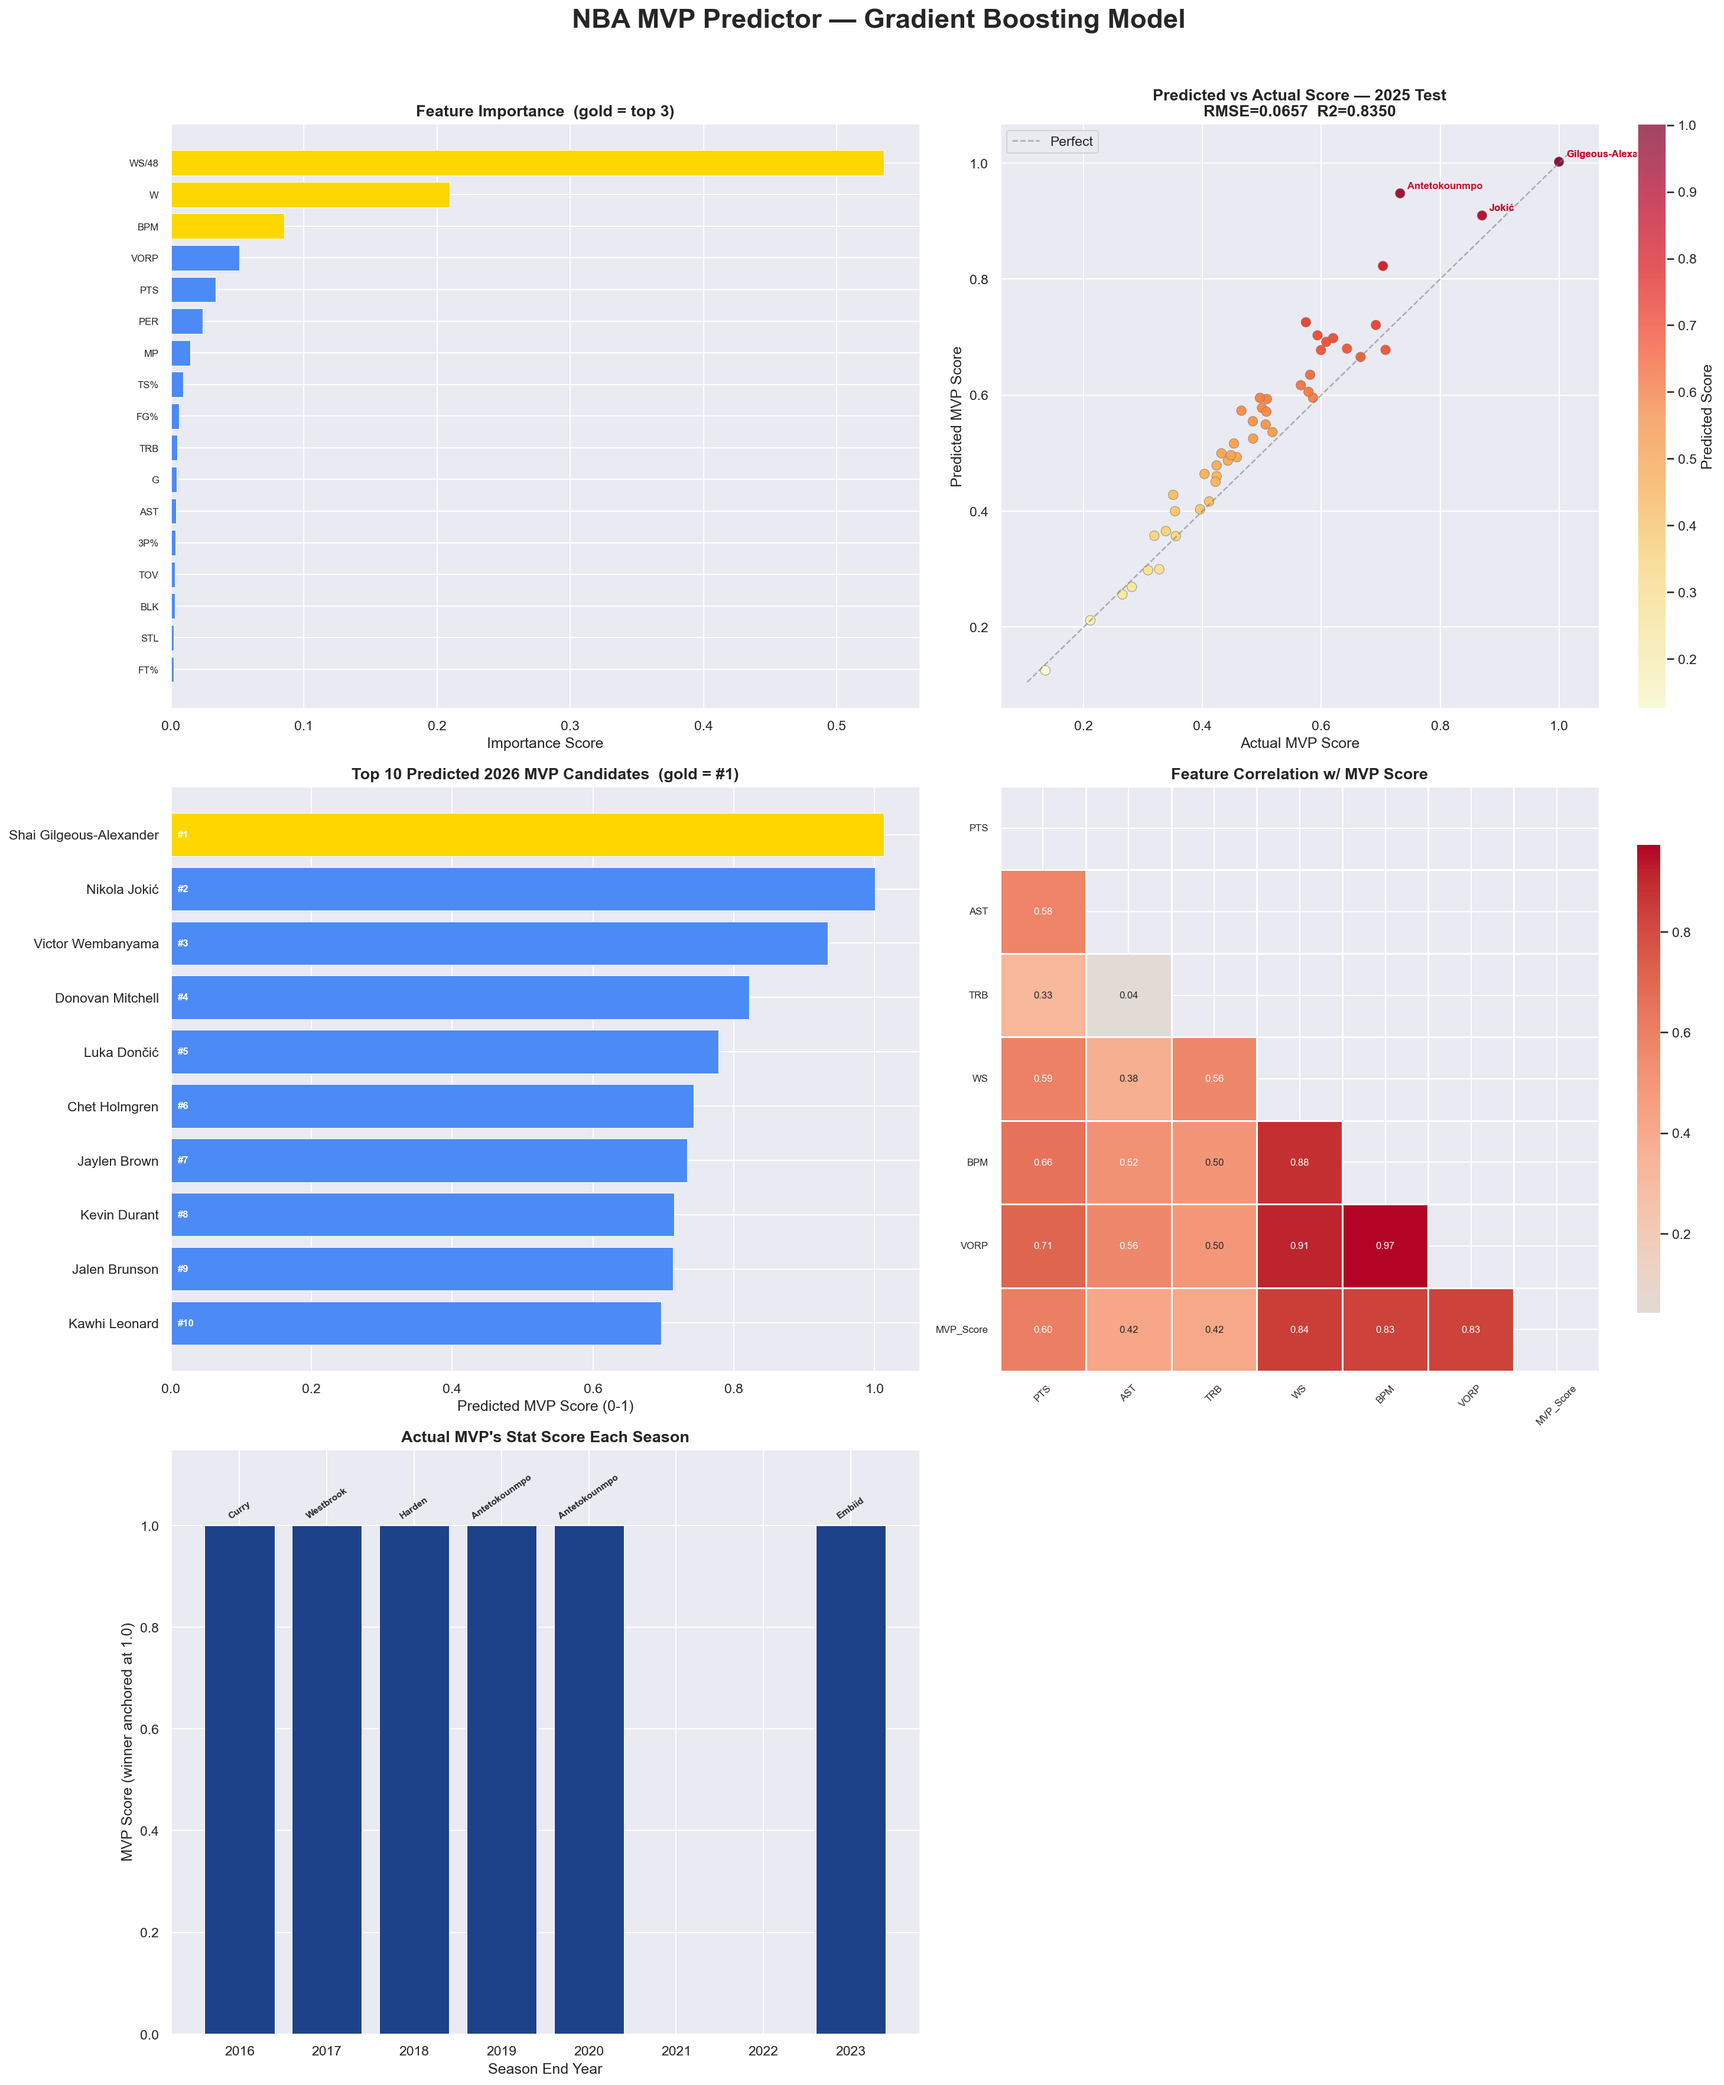
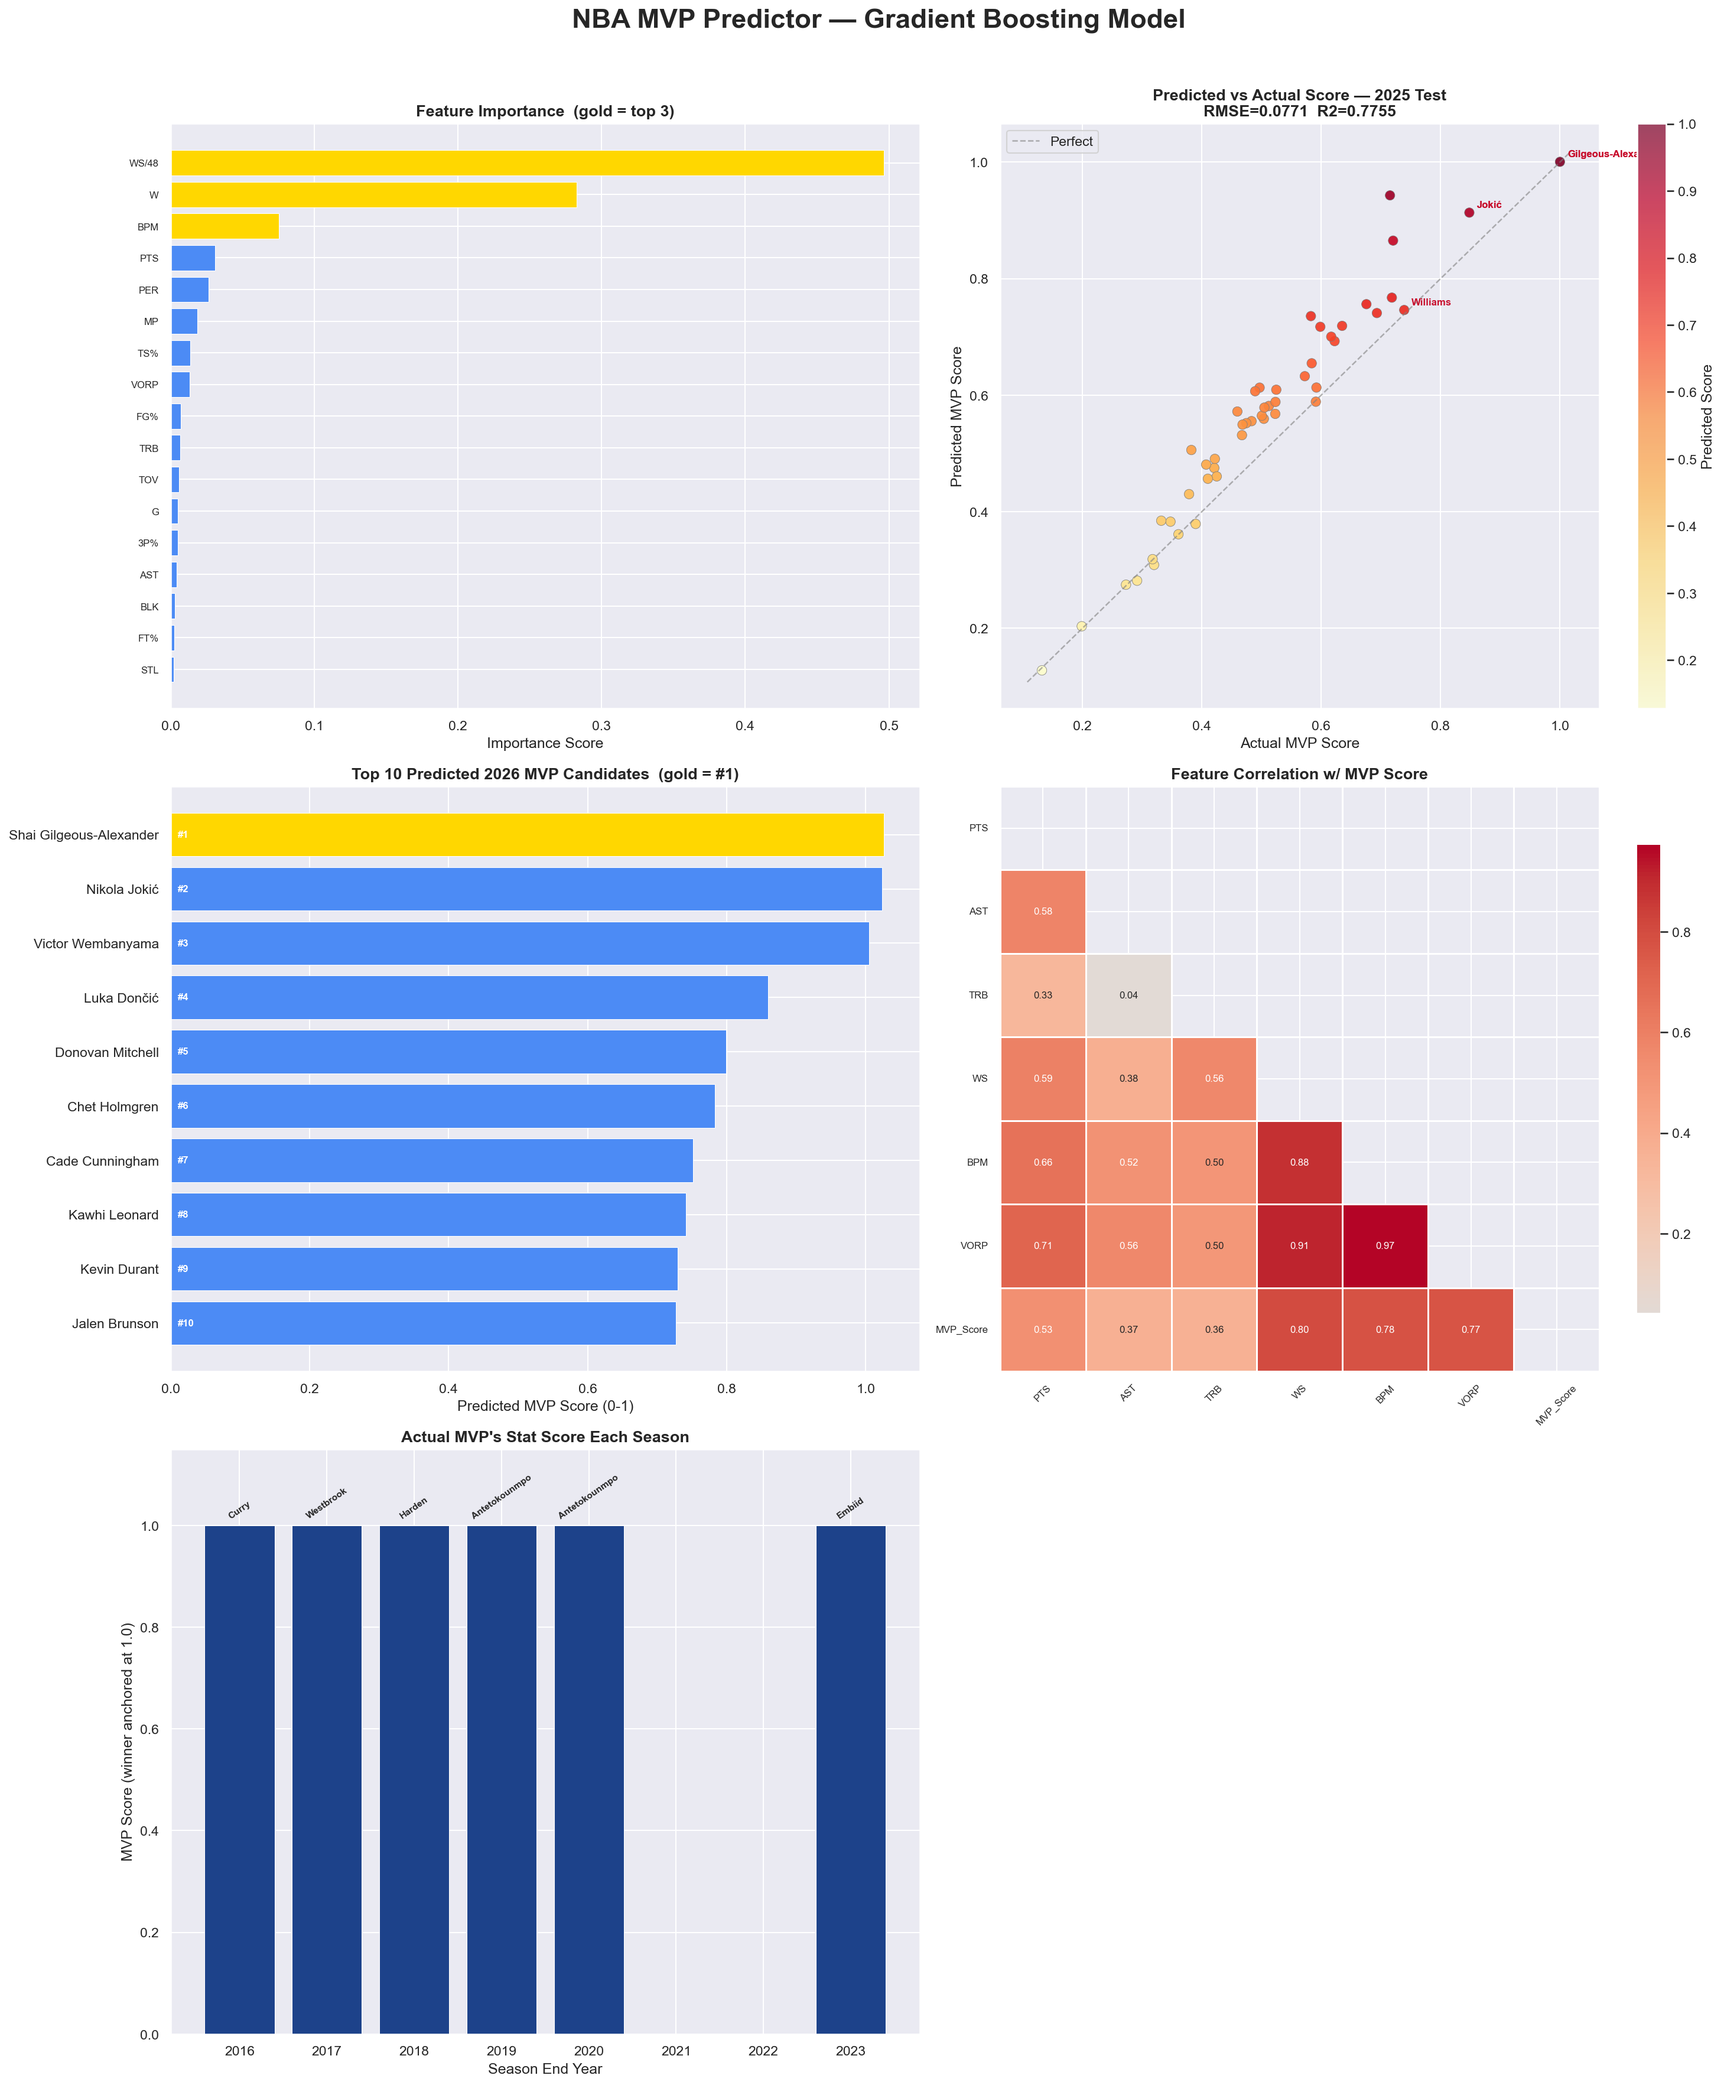
.

diff --git a/mvp.py b/mvp.py
@@ -23,19 +23,19 @@ warnings.filterwarnings("ignore")
 
 
 # ══════════════════════════════════════════════════════════════════════
-#  SECTION 5 — BUILD TARGET: winner-anchored MVP score
+#  SECTION 1 — BUILD TARGET: MVP score
 # ══════════════════════════════════════════════════════════════════════
 
 SCORE_WEIGHTS = {
-    "WS":   4.0,
-    "BPM":  2.0,
+    "WS":   5.0,
+    "BPM":  3.0,
     "PER":  2.5,
     "AST":  0.5,
     "TRB":  0.3,
     "STL":  1.1,
     "BLK":  1.0,
     "PTS":  3.0,
-    "W":    11,
+    "W":    17,
 }
 
 
@@ -142,9 +142,9 @@ standings_2026 = pd.DataFrame({
         "Brooklyn Nets", "Charlotte Hornets", "Philadelphia 76ers",
         "Detroit Pistons", "Portland Trail Blazers", "Washington Wizards"
     ],
-    "W": [68, 64, 61, 55, 49, 48, 44, 52, 45, 50,
-          40, 50, 43, 42, 38, 40, 35, 34, 30, 22,
-          25, 38, 41, 28, 20, 30, 24, 42, 20, 15]
+    "W": [64, 52, 56, 53, 25, 53, 37, 52, 54, 49,
+          42, 19, 26, 43, 32, 22, 45, 62, 26, 22,
+          46, 46, 45, 31, 20, 44, 45, 60, 42, 17]
 })
 standings_2026["Season"] = 2026
 standings
